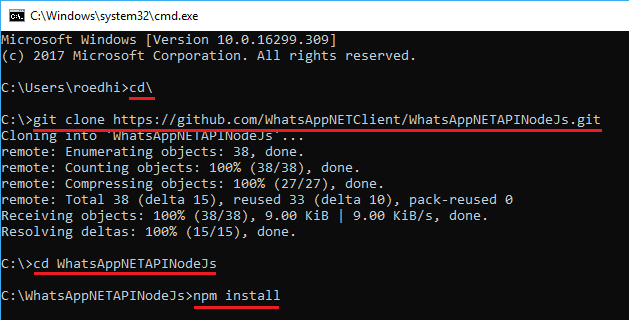
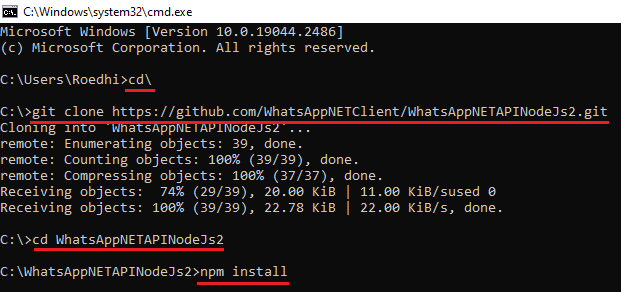
Site updated at 2023-02-12 21:37:00 PM

diff --git a/index.backup-update.html b/index.backup-update.html
@@ -14,11 +14,11 @@
 <meta property="og:locale" content="en_US" />
 <meta name="description" content="WhatsApp Client Library for .NET Developer" />
 <meta property="og:description" content="WhatsApp Client Library for .NET Developer" />
-<link rel="canonical" href="http://wa-net.coding4ever.net/" />
-<meta property="og:url" content="http://wa-net.coding4ever.net/" />
+<link rel="canonical" href="http://wa-net.coding4ever.net/index.backup-update.html" />
+<meta property="og:url" content="http://wa-net.coding4ever.net/index.backup-update.html" />
 <meta property="og:site_name" content="WhatsApp NET Client" />
 <script type="application/ld+json">
-{"headline":"Apa itu WhatsApp NET Client?","@type":"WebSite","url":"http://wa-net.coding4ever.net/","name":"WhatsApp NET Client","description":"WhatsApp Client Library for .NET Developer","@context":"https://schema.org"}</script>
+{"headline":"Apa itu WhatsApp NET Client?","@type":"WebPage","url":"http://wa-net.coding4ever.net/index.backup-update.html","description":"WhatsApp Client Library for .NET Developer","@context":"https://schema.org"}</script>
 <!-- End Jekyll SEO tag -->
 
   </head>
@@ -262,8 +262,6 @@
 
 <p><img src="http://wa-net.coding4ever.net/assets/images/9.png" alt="" /></p>
 
-<p>Setelah itu baca file <code class="language-plaintext highlighter-rouge">README</code> yang ada di folder <code class="language-plaintext highlighter-rouge">C:\WhatsAppNETAPINodeJs2</code> kemudian lakukan langkah-langkah sesuai instruksi yang ada.</p>
-
 <h3 id="3-mengclone-repository-contoh-penggunaan-library-whatsapp-net-client">3. Mengclone Repository Contoh Penggunaan Library WhatsApp NET Client</h3>
 
 <p>Langkah-langkah ini sebenarnya sama seperti sebelumnya, Anda tinggal pindah direktori atau mau pindah drive yang lain sama saja. Tapi untuk langkah-langkah di sini saya tetap menggunakan drive <code class="language-plaintext highlighter-rouge">C</code> untuk mengclone repositoy <a href="https://github.com/WhatsAppNETClient/WhatsAppNETClient2">contoh penggunaan library WhatsApp NET Client</a>.</p>
@@ -297,17 +295,43 @@
 
 <p><img src="http://wa-net.coding4ever.net/assets/images/15.png" alt="" /></p>
 
+<h1 id="update"><a href="#update">Update</a></h1>
+
+<h3 id="1-mengupdate-repository-whatsappnetapinodejs">1. Mengupdate Repository WhatsAppNETAPINodeJs</h3>
+
+<p>Untuk mengupdate repository <a href="https://github.com/WhatsAppNETClient/WhatsAppNETAPINodeJs2">WhatsApp NET API NodeJs</a> caranya sangat gampang, Anda jalankan terlebih dulu <code class="language-plaintext highlighter-rouge">command prompt</code> kemudian masuk ke direktori <code class="language-plaintext highlighter-rouge">WhatsAppNETAPINodeJs2</code> dengan menggunakan perintah <code class="language-plaintext highlighter-rouge">CD</code>, setelah itu ketik perintah berikut:</p>
+
+<div class="language-plaintext highlighter-rouge"><div class="highlight"><pre class="highlight"><code>git pull
+</code></pre></div></div>
+<p>Kemudian tunggu sampai proses updatenya selesai. Jika berhasil tampilan prosesnya lebih kurang seperti berikut:</p>
+
+<p><img src="http://wa-net.coding4ever.net/assets/images/21a.png" alt="" /></p>
+
+<p>Setelah itu lanjutkan dengan mengetik perintah <code class="language-plaintext highlighter-rouge">npm update @adiwajshing/baileys</code></p>
+
+<p>Tunggu sampai proses update versi <code class="language-plaintext highlighter-rouge">@adiwajshing/baileys</code> selesai. Kalo untuk tampilan prosesnya lebih kurang seperti berikut, jadi mungkin di pc/laptop Anda akan mendapatkan tampilan yang berbeda.</p>
+
+<p><img src="http://wa-net.coding4ever.net/assets/images/21b.png" alt="" /></p>
+
+<h3 id="2-mengupdate-project-net">2. Mengupdate Project .NET</h3>
+
+<p>Langkah berikutnya adalah mengupdate nuget package <a href="https://www.nuget.org/packages/WhatsAppNETAPI/">WhatsAppNETAPI</a> di project .NET Anda. Caranya adalah buka terlebih dulu project Anda, kemudian klik kanan <code class="language-plaintext highlighter-rouge">References</code> -&gt; <code class="language-plaintext highlighter-rouge">Manage Nuget Package...</code></p>
+
+<p><img src="http://wa-net.coding4ever.net/assets/images/22.png" alt="" /></p>
+
+<p>Kemudian pada jendela Nuget Package, Anda pilih panel <code class="language-plaintext highlighter-rouge">Updates</code>, dan cari package <a href="https://www.nuget.org/packages/WhatsAppNETAPI/">WhatsAppNETAPI</a> kemudian klik tombol <code class="language-plaintext highlighter-rouge">Update</code>.</p>
+
+<p><img src="http://wa-net.coding4ever.net/assets/images/23.png" alt="" /></p>
+
+<p>Tunggu sampai proses Updatenya selesai. Tampilannya kurang lebih seperti berikut:</p>
+
+<p><img src="http://wa-net.coding4ever.net/assets/images/24.png" alt="" /></p>
+
 <h1 id="melaporkan-bug-atau-error">Melaporkan Bug atau Error</h1>
 
 <p>Secara teknis dalam pengembangan sebuah aplikasi jelas tidak mungkin 100% bebas dari bug. Nah jika Anda menemukan bug atau error pada saat menggunakan library WhatsApp NET Client ini, silahkan Anda laporkan di halaman <a href="https://github.com/WhatsAppNETClient/WhatsAppNETClient2/issues">https://github.com/WhatsAppNETClient/WhatsAppNETClient2/issues</a>.</p>
 
 <h1 id="screenshot-project-contoh-penggunaan-library-whatsapp-net-client">Screenshot Project Contoh Penggunaan Library WhatsApp NET Client</h1>
-
-<p>Tampilan awal demo project WhatsApp NET Client</p>
-
-<p><img src="http://wa-net.coding4ever.net/assets/images/1.png" alt="" /></p>
-
-<p>Mohon maaf untuk beberapa screenshot berikutnya belum saya update, jadi masih menggunakan screenshot versi lama 😁</p>
 
 <p>Scan awal QRCode cukup sekali saja, untuk koneksi berikutnya sudah tidak diperlukan lagi karna library ini otomatis menyimpan session autentikasinya.</p>
 
@@ -331,7 +355,7 @@
 
 <h1 id="info-rilis">Info Rilis</h1>
 
-<h3 id="v300-2023-02-12">v3.0.0 (2023-02-12)</h3>
+<h3 id="v300-2023-12-xx">v3.0.0 (2023-12-xx)</h3>
 
 <p>Di versi ini WhatsApp NET Client menggunakan library <a href="https://github.com/adiwajshing/Baileys">Baileys - WhatsApp Web API</a> untuk berkomunikasi dengan WhatsApp server menggantikan library <a href="https://github.com/pedroslopez/whatsapp-web.js/">whatsapp-web.js</a>.</p>
 
@@ -362,6 +386,7 @@
   </li>
   <li>Improve:
     <ul>
+      <li>Multi WA [Belum di test]</li>
       <li>Menambahkan field nomor WA aktif di mysql [belum implement]</li>
       <li>Tambahan parameter groupId di method <code class="language-plaintext highlighter-rouge">GetGroups</code> untuk menampilkan member dari group tertentu</li>
       <li>Fitur untuk mengirim pesan <code class="language-plaintext highlighter-rouge">list</code>, <code class="language-plaintext highlighter-rouge">button</code> dan <code class="language-plaintext highlighter-rouge">location</code> sudah bisa digunakan lagi</li>

diff --git a/fitur.html b/fitur.html
@@ -186,7 +186,7 @@
         
 		
 		<p class="copyright">
-			&copy; 2020 - 2022 Kamarudin. Powered by <a href="https://jekyllrb.com" rel="nofollow">Jekyll</a> &amp; <a href="https://github.com/pages-themes/slate/" rel="nofollow">The Slate theme</a>
+			&copy; 2020 - 2023 Kamarudin. Powered by <a href="https://jekyllrb.com" rel="nofollow">Jekyll</a> &amp; <a href="https://github.com/pages-themes/slate/" rel="nofollow">The Slate theme</a>
 			</br>
 			<a href="http://coding4ever.net/" rel="nofollow">Coding4ever's Blog</a> | <a href="mailto:rudi.krsoftware@gmail.com">rudi.krsoftware@gmail.com</a>
 		</p>

diff --git a/404.html b/404.html
@@ -70,7 +70,7 @@
         
 		
 		<p class="copyright">
-			&copy; 2020 - 2022 Kamarudin. Powered by <a href="https://jekyllrb.com" rel="nofollow">Jekyll</a> &amp; <a href="https://github.com/pages-themes/slate/" rel="nofollow">The Slate theme</a>
+			&copy; 2020 - 2023 Kamarudin. Powered by <a href="https://jekyllrb.com" rel="nofollow">Jekyll</a> &amp; <a href="https://github.com/pages-themes/slate/" rel="nofollow">The Slate theme</a>
 			</br>
 			<a href="http://coding4ever.net/" rel="nofollow">Coding4ever's Blog</a> | <a href="mailto:rudi.krsoftware@gmail.com">rudi.krsoftware@gmail.com</a>
 		</p>
